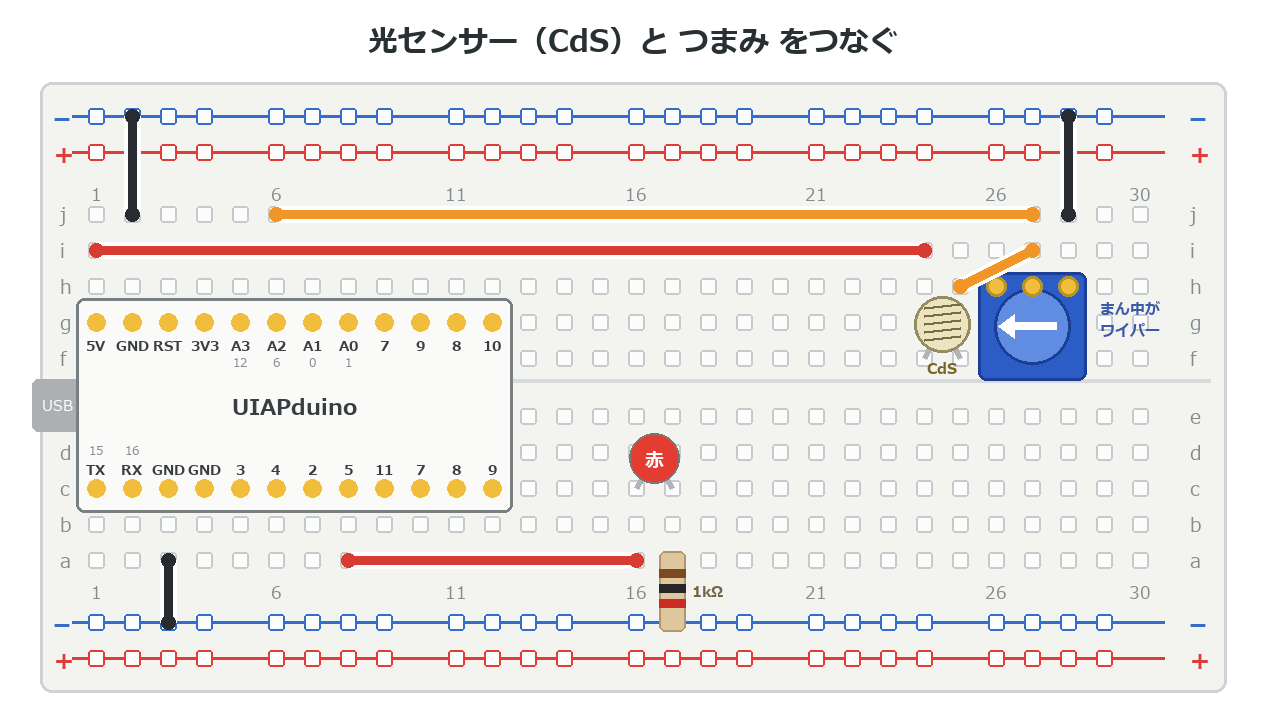
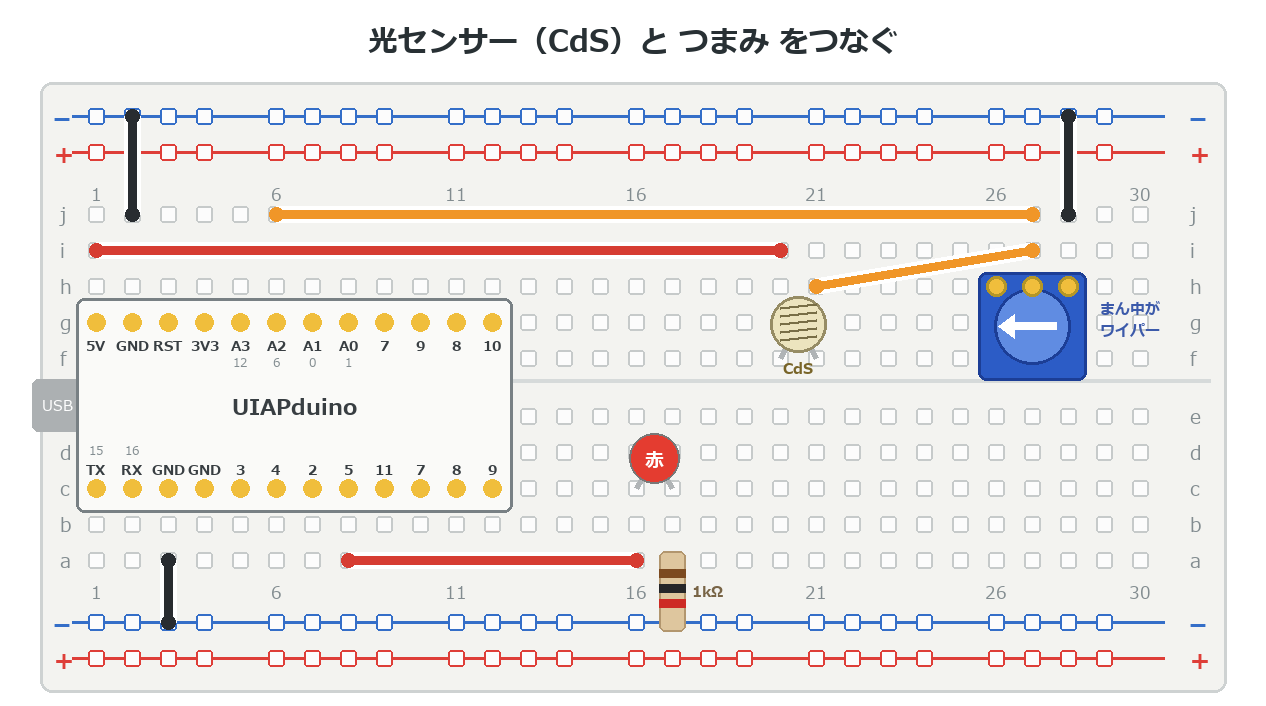
e1 の CdS を 20・21列に移し、5V と CdS の線を引きなおした
24・25列ではつまみに近すぎて見にくかった。5V の赤い線は 1列 → 20列、
CdS の右の足（21列）からつまみのまん中（27列）へオレンジの線をつなぐ。
つまみ・A2・GND の線は b4 と同じまま。

Changed region(s): [[0.5853, 0.3428, 0.8318, 0.5297]]

diff --git a/docs/e1_light/index.html b/docs/e1_light/index.html
@@ -75,7 +75,7 @@ CdS だけでは電圧にならない。**10kΩ のつまみ**と組にするよ
 2. CdS と つまみ のあいだが **A2**
 3. つまみは**まん中と右はし**だけ使う（左はしは空き）
 
-> b4 から続けるなら、赤い線を **24列**へ移し、CdS と短い線を足すだけ。
+> b4 から続けるなら、赤い線を **20列**へ移し、CdS と線を1本足すだけ。
 
 :::
 

diff --git a/tools/fig_bb_cds.py b/tools/fig_bb_cds.py
@@ -12,8 +12,8 @@
 **つまみの位置は b4 と同じ 26〜28列**（2026-10-24）。b4 の配線から続けると、
   そのまま … A2 のオレンジ（6列 → 27列＝まん中）、28列の黒（→ −レール）、
              ボードの GND の線、LED
-  変える   … 5V の赤い線の右はしを 26列 → 24列
-  足す     … CdS（24・25列）と、25列 → 27列 の短いオレンジ
+  変える   … 5V の赤い線の右はしを 26列 → 20列
+  足す     … CdS（20・21列）と、21列 → 27列 のオレンジ
 つまみの左はし（26列）は何にもつながない。使うのは まん中（27）と 右はし（28）。
 ⚠ b4 以前の配置（左はしと まん中を使う）とは、10kΩ になる回す向きが逆になる。
 """
@@ -32,9 +32,9 @@ wire(d, (2, "j"), (2, "-t"), BLACK)        # ボードのGND → −レール（
 
 # 5V ── CdS ── A2 ── つまみ（まん中〜右はし）── GND
 vr(d, 26, "h")                             # 足は 26・27・28列（まん中が27）。b4 と同じ場所
-cds(d, 24, "f")                            # 足は 24列・25列
-wire(d, (1, "i"), (24, "i"), RED)          # 5V → CdS の左の足（b4 の赤い線の右はしを移す）
-wire(d, (25, "h"), (27, "i"), ORANGE)      # CdS の右の足 → まん中（27列）
+cds(d, 20, "f")                            # 足は 20列・21列（つまみから離して見やすく）
+wire(d, (1, "i"), (20, "i"), RED)          # 5V → CdS の左の足
+wire(d, (21, "h"), (27, "i"), ORANGE)      # CdS の右の足 → まん中（27列）
 wire(d, (6, "j"), (27, "j"), ORANGE)       # A2 → まん中（b4 と同じ線）
 wire(d, (28, "j"), (28, "-t"), BLACK)      # 右はし → −レール（b3・b4 と同じ線）
 

diff --git a/CURRICULUM.md b/CURRICULUM.md
@@ -491,7 +491,8 @@ micro:bit（センサー内蔵）／Raspberry Pi（カメラ・画面）。
 
 b4 からの配線変更を減らすため、つまみを b4 と同じ位置（h行・26〜28列）に移した。
 A2 のオレンジ（6列 → 27列＝まん中）、28列の黒（→ −レール）、ボードの GND、LED はそのまま。
-変えるのは 5V の赤い線の右はし（26列 → 24列）だけで、CdS（24・25列）と短い線（25列 → 27列）を足す。
+変えるのは 5V の赤い線の右はし（26列 → 20列）だけで、CdS（20・21列）と線（21列 → 27列）を足す。
+（最初は CdS を 24・25列に置いたが、つまみに近すぎて見にくいので 20・21列に移した）
 作図は `tools/fig_bb_cds.py`。
 
 ⚠ **つまみの使う足が「左はし＋まん中」から「まん中＋右はし」に変わった**ので、

diff --git a/content/e1_light/index.md b/content/e1_light/index.md
@@ -61,7 +61,7 @@ CdS だけでは電圧にならない。**10kΩ のつまみ**と組にするよ
 2. CdS と つまみ のあいだが **A2**
 3. つまみは**まん中と右はし**だけ使う（左はしは空き）
 
-> b4 から続けるなら、赤い線を **24列**へ移し、CdS と短い線を足すだけ。
+> b4 から続けるなら、赤い線を **20列**へ移し、CdS と線を1本足すだけ。
 
 :::
 
